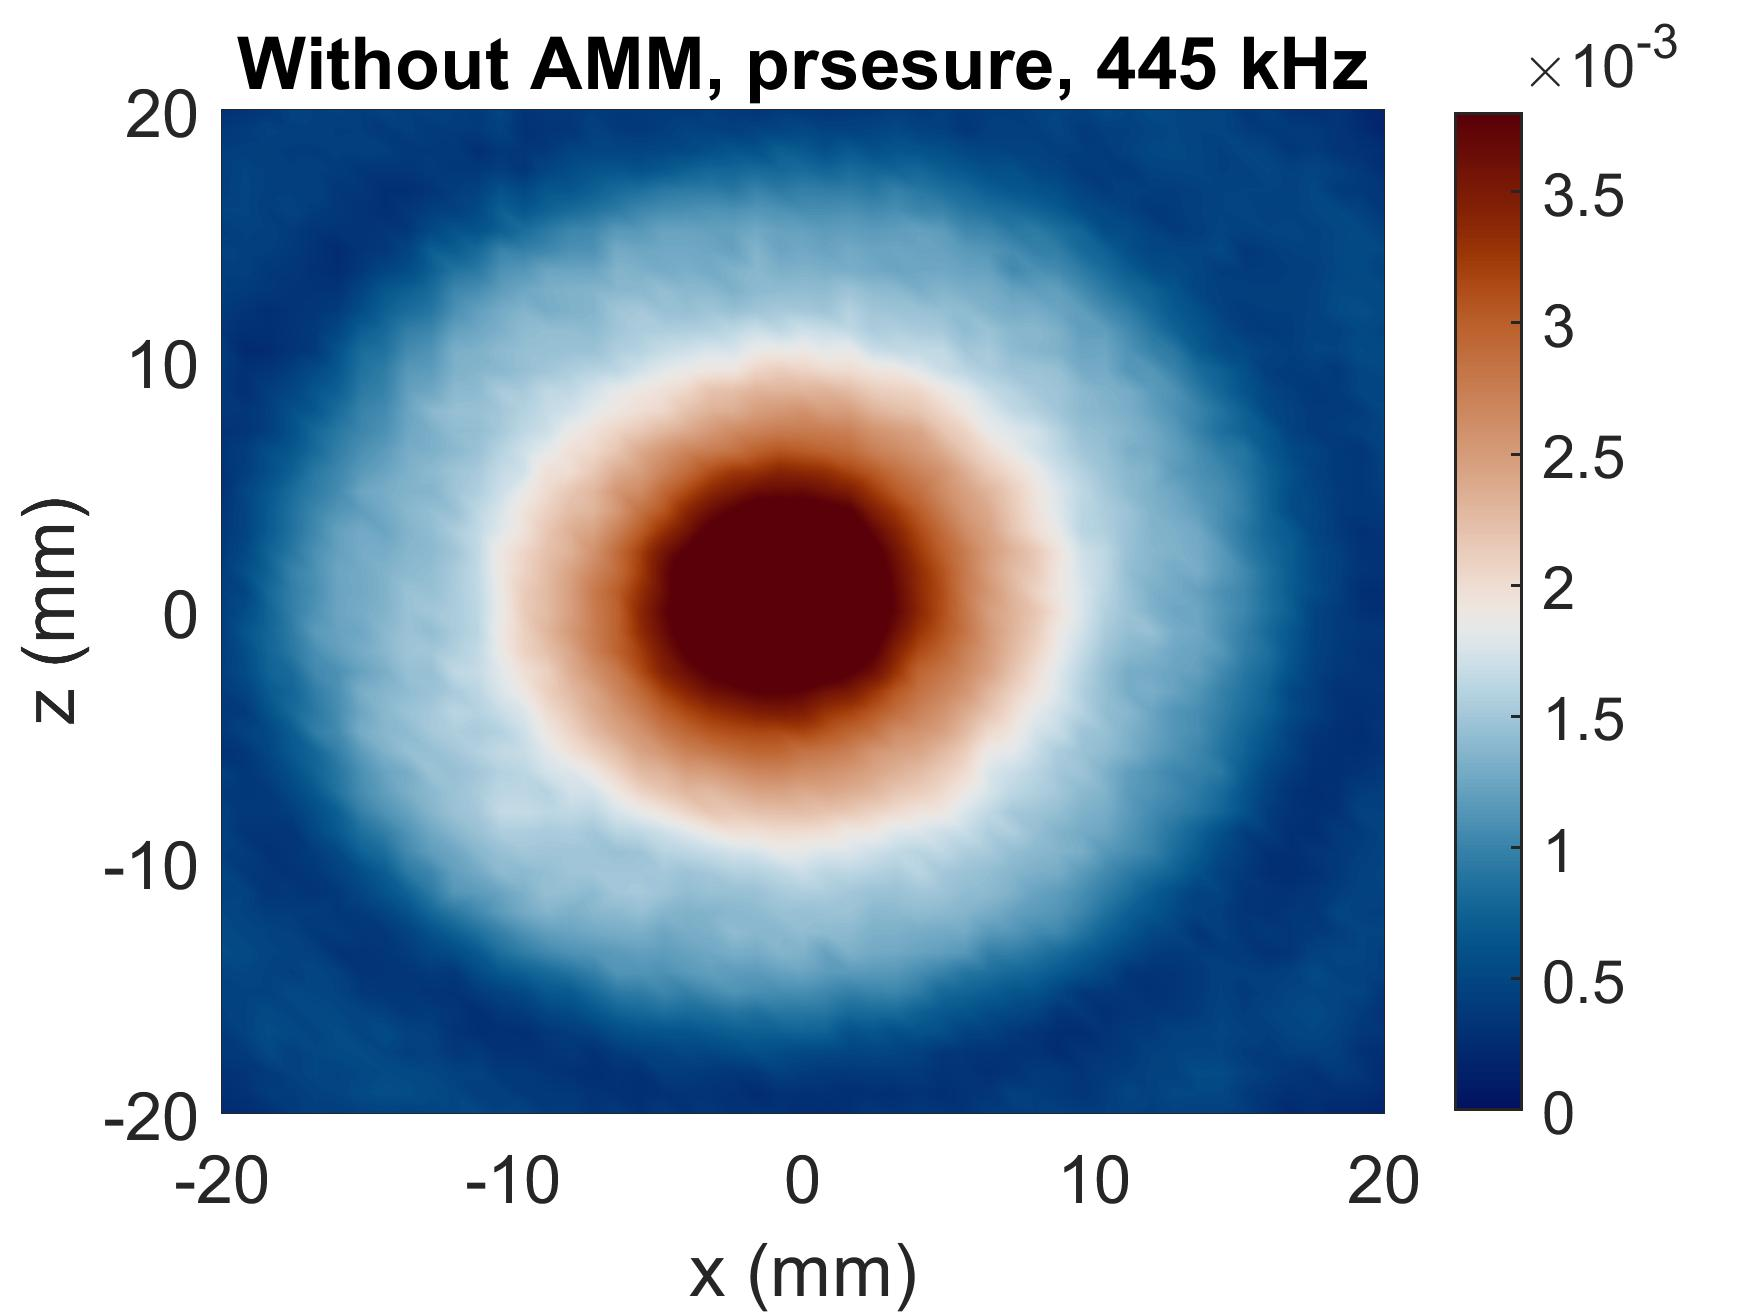
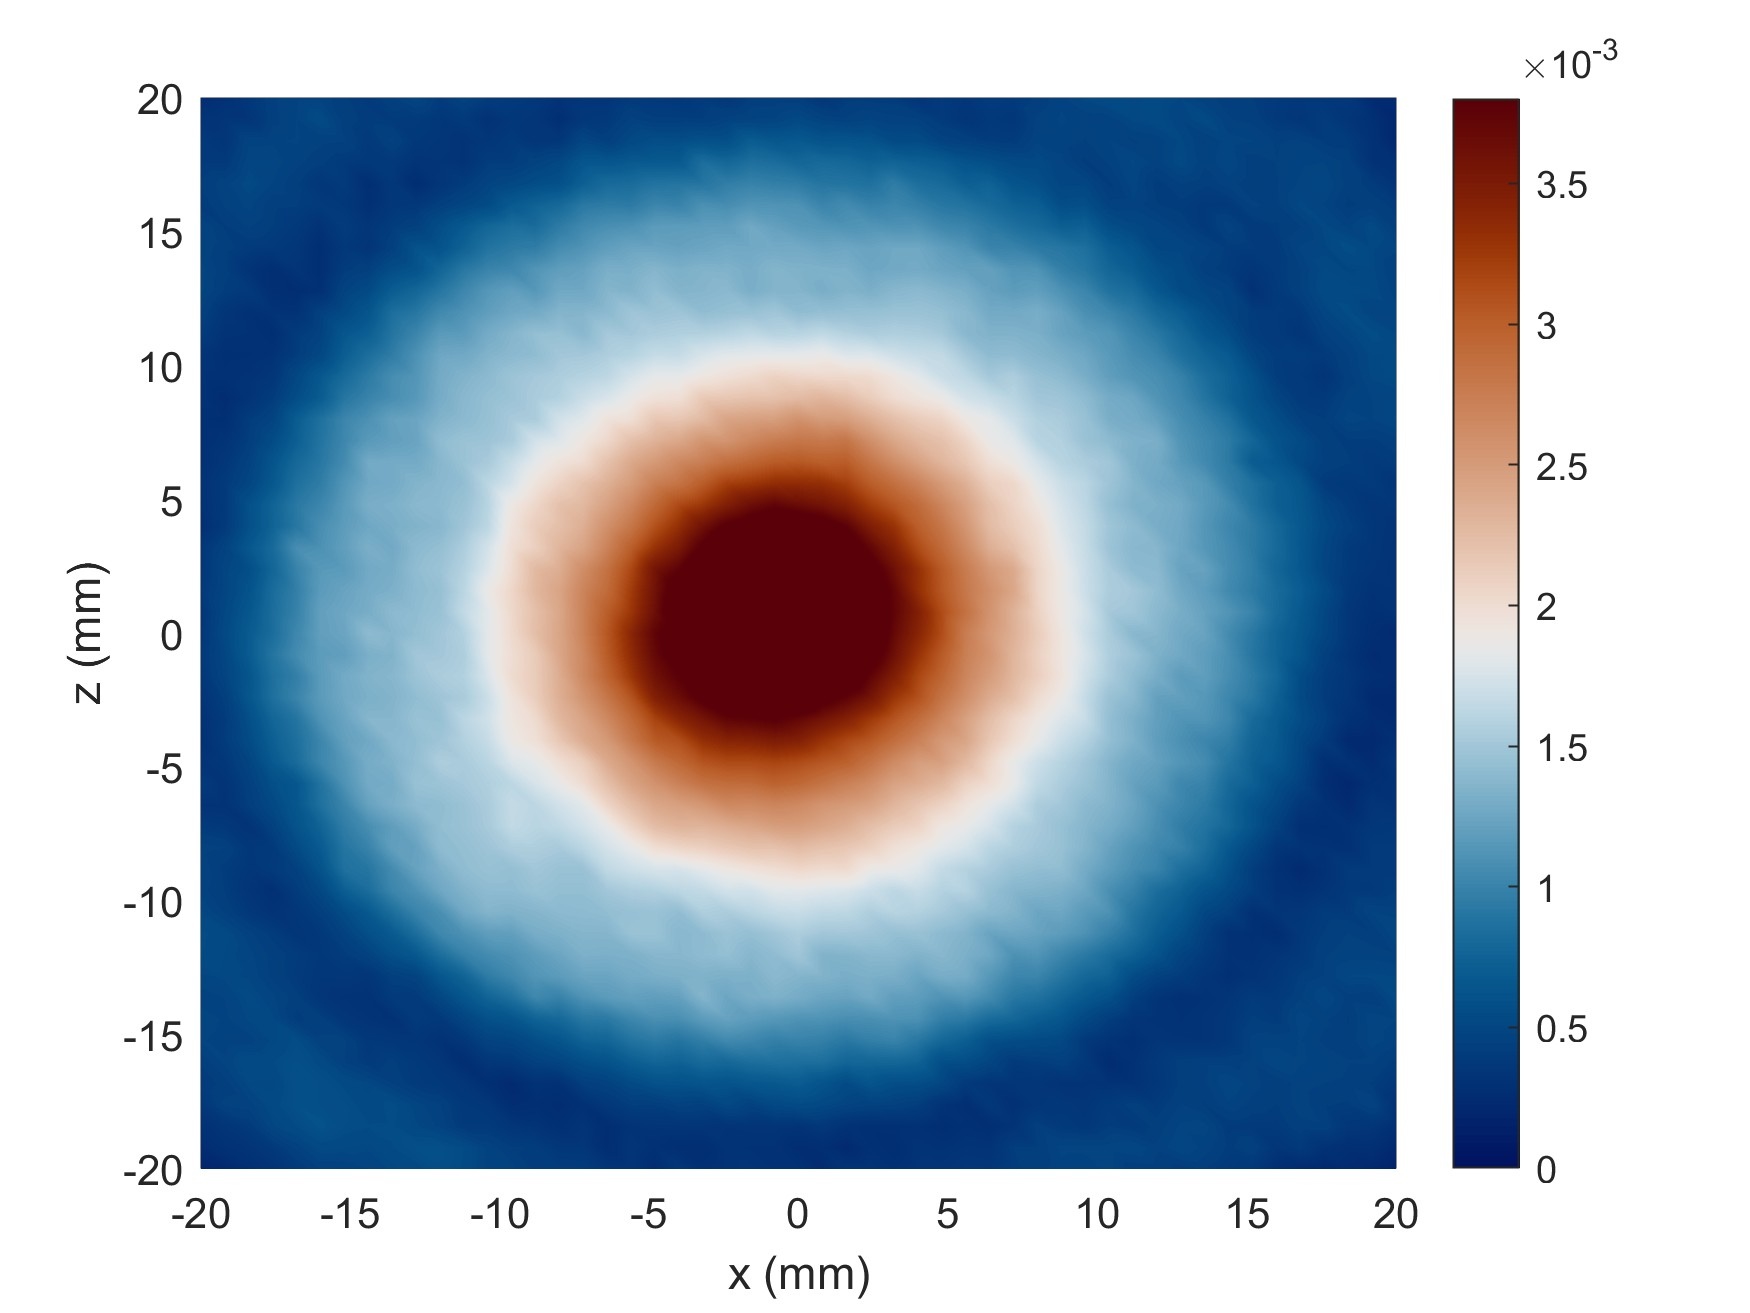
add pressure distribution without AMM

diff --git a/matlab/exp/CalPowTransCoef_230302C.m b/matlab/exp/CalPowTransCoef_230302C.m
@@ -30,12 +30,16 @@ f_des = 445e3;
 %% sound pressure distribution without AMM
 fig_prs_void = Figure;
 pcolor(data_void.fp_abs.x.', data_void.fp_abs.z(:), squeeze(data_void.prs_rec_cal(:,1,:,idx_f)).');
+pcolor(x_data, y_data, c_data)
 fig_prs_void.Init;
 title(sprintf('Without AMM, prsesure, %d kHz', f_des/1e3));
 xlabel('x (mm)');
 ylabel('z (mm)');
 clim([0, 3.8e-3]);
 % fig_prs_void.Print('exp/fig/CalPowTransCoef_230302C_PrsVoid_')
+% extract data
+[x_data, y_data, ~, c_data] = fig_prs_void.ExtractData();
+save('exp/data/CalPowTransCoef_230302C_PrsVoid_.mat', 'x_data', 'y_data', 'c_data');
 
 %% sound pressure distribution With AMM
 fig_prs_AMM = Figure;
@@ -91,8 +95,7 @@ fig_pow_plate.Init;
 % fig_pow_AMM.Print('exp/fig/CalPowTransCoef_230302C_PowAMM_')
 
 %% transmission
-% fig_pow_coef = Figure;
-fig = figure;
+fig_pow_coef = Figure;
 plot(data_AMM.f/1e3, squeeze(pow_coef_p2_plate));
 hold on
 plot(data_AMM.f/1e3, squeeze(pow_coef_p2_AMM));
@@ -102,11 +105,12 @@ xlabel('Freq (kHz)')
 ylabel('Power transmission coefficient')
 xlim([420,460])
 ylim([0,1])
+fig_pow_coef.Init;
+fig_pow_coef.Print('exp/fig/CalPowTransCoef_230302C_Res_')
+
 
 %% save data
 f = data_AMM.f/1e3;
 pow_coef_plate = squeeze(pow_coef_p2_plate);
 pow_coef_AMM = squeeze(pow_coef_p2_AMM);
 save('exp/data/CalPowTransCoef_230302C_Res_.mat', 'f', 'pow_coef_plate', 'pow_coef_AMM');
-% fig_pow_coef.Init;
-% fig_pow_coef_AMM.Print('exp/fig/CalPowTransCoef_230302C_PowCoefAMM_')

diff --git a/matlab/exp/CalPowTransCoef_230302C_PrsVoid.m b/matlab/exp/CalPowTransCoef_230302C_PrsVoid.m
@@ -1,0 +1,17 @@
+clear all
+
+load('CalPowTransCoef_230302C_PrsVoid.mat');
+load('vik.mat')
+fn = mfilename;
+
+fig = figure;
+pcolor(x_data, y_data, c_data);
+colormap(vik)
+shading interp
+% title(sprintf('Without AMM, prsesure, %d kHz', f_des/1e3));
+xlabel('x (mm)');
+ylabel('z (mm)');
+colorbar
+clim([0, 3.8e-3]);
+
+print(sprintf('exp/fig/%s.jpg', fn),'-djpeg', sprintf('-r%s',num2str(300)));

diff --git a/README.md b/README.md
@@ -9,8 +9,15 @@ This repo stores the data for the project `Enhancing underwater power transmissi
     ├─ExpNotes  // Experimental notes
 ```
 
+## MATLAB files
+Run `UnderwaterMeta2302.m` at first to include the paths.
+
 ## Important figures
 
 Power transmission coefficients with and without the AMM. See `matlab/exp/CalPowTransCoef_230302C_Res.m`.
 
 ![Power transmission coefficient](matlab/exp/fig/CalPowTransCoef_230302C_Res.jpg)
+
+Pressure distribution without AMM and plate at 445 kHz.
+
+![](matlab/exp/fig/CalPowTransCoef_230302C_PrsVoid.jpg)
